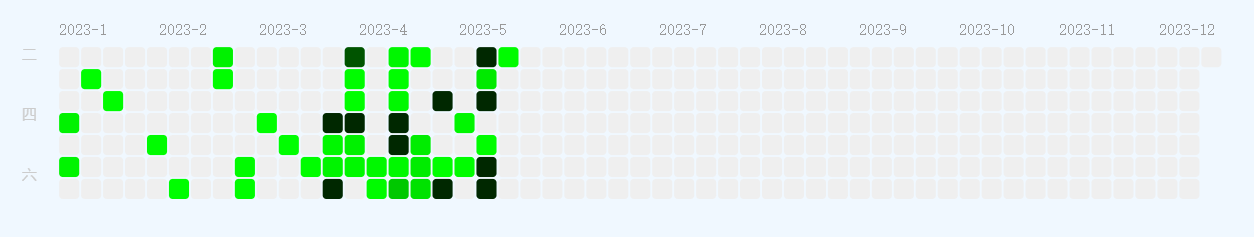
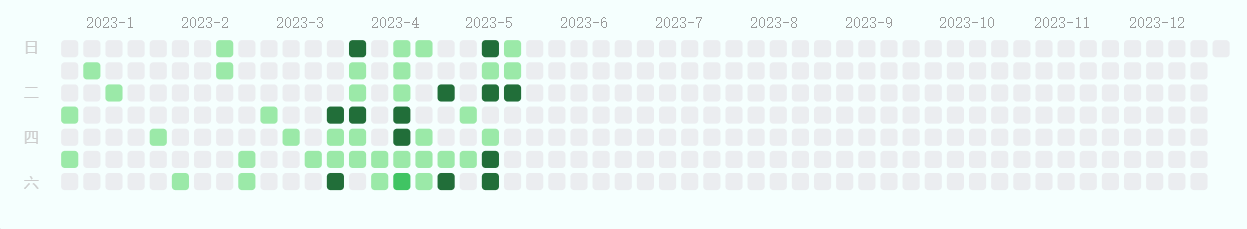
perf: 颜色调整及块间距调整
1. 调整颜色显示逻辑，丢掉荧光绿色及比较亮的颜色，看起来不那么累
2. 方块太胖，看起来会很累，整体缩小方块，及调大方块及方块间间距
3.
预览图及icon图标更换

diff --git a/src/index.ts b/src/index.ts
@@ -88,7 +88,7 @@ export default class P extends Plugin {
         const monthScale = d3
             .scaleLinear()
             .domain([0, months().length])
-            .range([0, width - margin - weekBoxWidth + 10]);
+            .range([20, width - margin - weekBoxWidth -20]);
         monthBox
             .selectAll("text")
             .data(months())
@@ -142,10 +142,10 @@ export default class P extends Plugin {
                 "translate(" + (margin + weekBoxWidth) + ", " + (margin + 10) + ")"
             );
         // 设置方块间距
-        const cellMargin = 1.5;
+        const cellMargin = 4;
         // 计算方块大小
         const cellSize =
-            (height - margin - monthBoxHeight - cellMargin * 5 - 10) / 7;
+            (height - margin - monthBoxHeight - cellMargin * 6 - 10) / 7;
         // 方块列计数器
         let cellCol = 0;
         const cell = cellBox
@@ -158,25 +158,20 @@ export default class P extends Plugin {
             .attr("rx", 3)
             .attr("fill", function (d) {
                 if (d.total === undefined || d.total === 0) {
-                    return "#EFEFEF";
+                    return "#ebedf0";
                 }
-                let T = d.total;
-                let RB = 225;
-                let G = 255;
-                if (T > 0) {
-                    if (T <= 225) {
-                        RB = RB - T;
-                    } else if (T > 225 && T <= 410) {
-                        RB = 0;
-                        G = G - (T - 225);
-                    } else {
-                        RB = 16;
-                        G = 60;
+                let total = d.total;
+                if (total > 0) {
+                    if (total <= 30){
+                        return "#9be9a8"
+                    }else if (total <= 70){
+                        return "#40c463"
+                    }else if (total <= 120){
+                        return "#30a14e"
                     }
-
-                    return "RGB(" + RB + "," + G + "," + RB + ")";
+                    return "#216e39";
                 }
-                return "#EFEFEF";
+                return "#ebedf0";
             })
             .attr("x", (v, i) => {
                 if (i % 7 === 0) {
